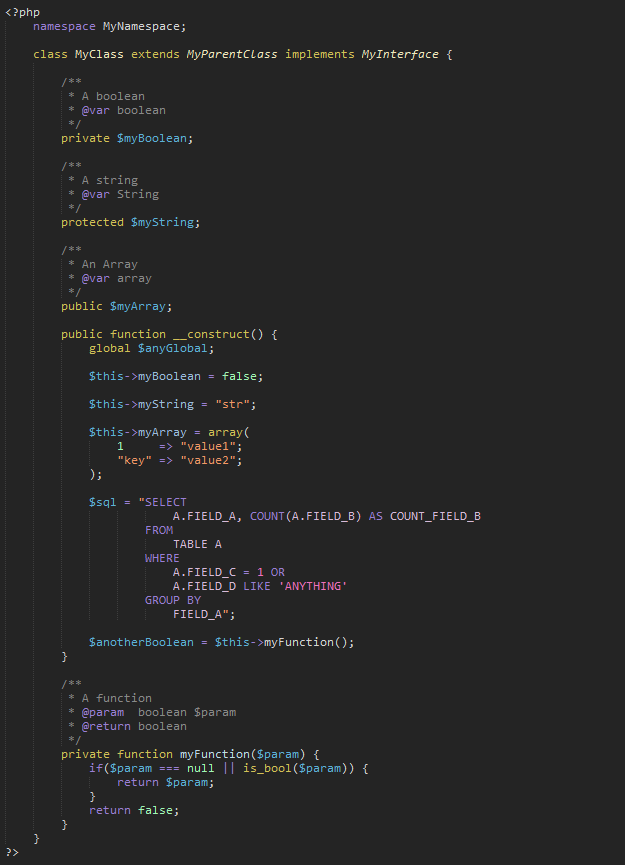
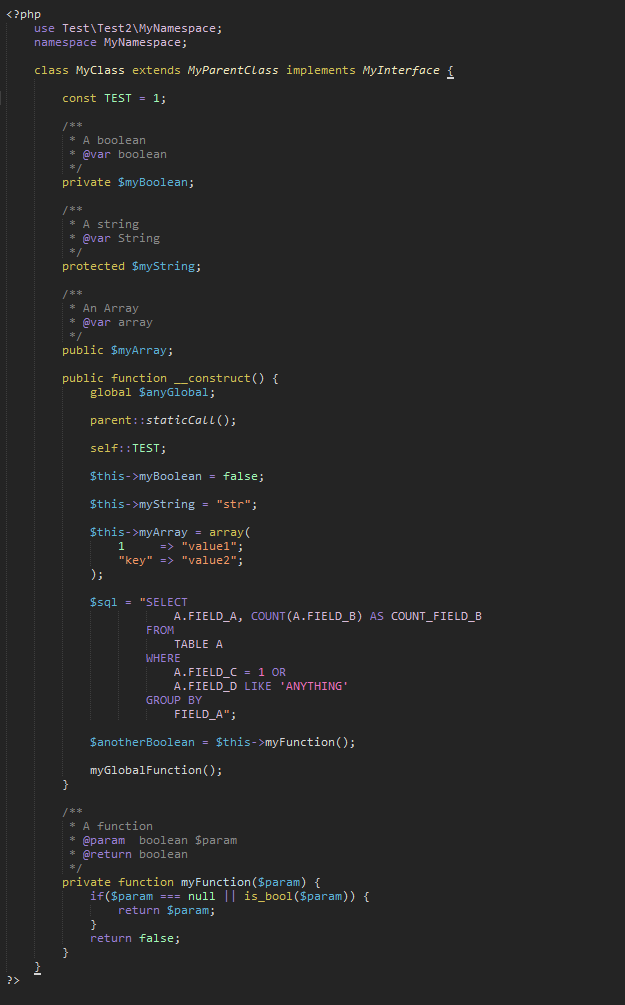
Fixed PHP syntax to work better without php-grammar plugin. #13

Changed region(s): [[0.0, 0.0, 0.7904, 0.9364], [0.1216, 0.5618, 0.1824, 0.6243], [0.0, 0.9676, 0.0304, 0.9988]]

diff --git a/samples/Sample.php b/samples/Sample.php
@@ -1,8 +1,11 @@
 
 <?php
+    use Test\Test2\MyNamespace;
     namespace MyNamespace;
 
     class MyClass extends MyParentClass implements MyInterface {
+
+        const TEST = 1;
 
         /**
          * A boolean
@@ -24,7 +27,11 @@
 
         public function __construct() {
             global $anyGlobal;
+            
+            parent::staticCall();
 
+            self::TEST;
+            
             $this->myBoolean = false;
 
             $this->myString = "str";
@@ -45,6 +52,8 @@
                         FIELD_A";
 
             $anotherBoolean = $this->myFunction();
+            
+            myGlobalFunction();
         }
 
         /**
